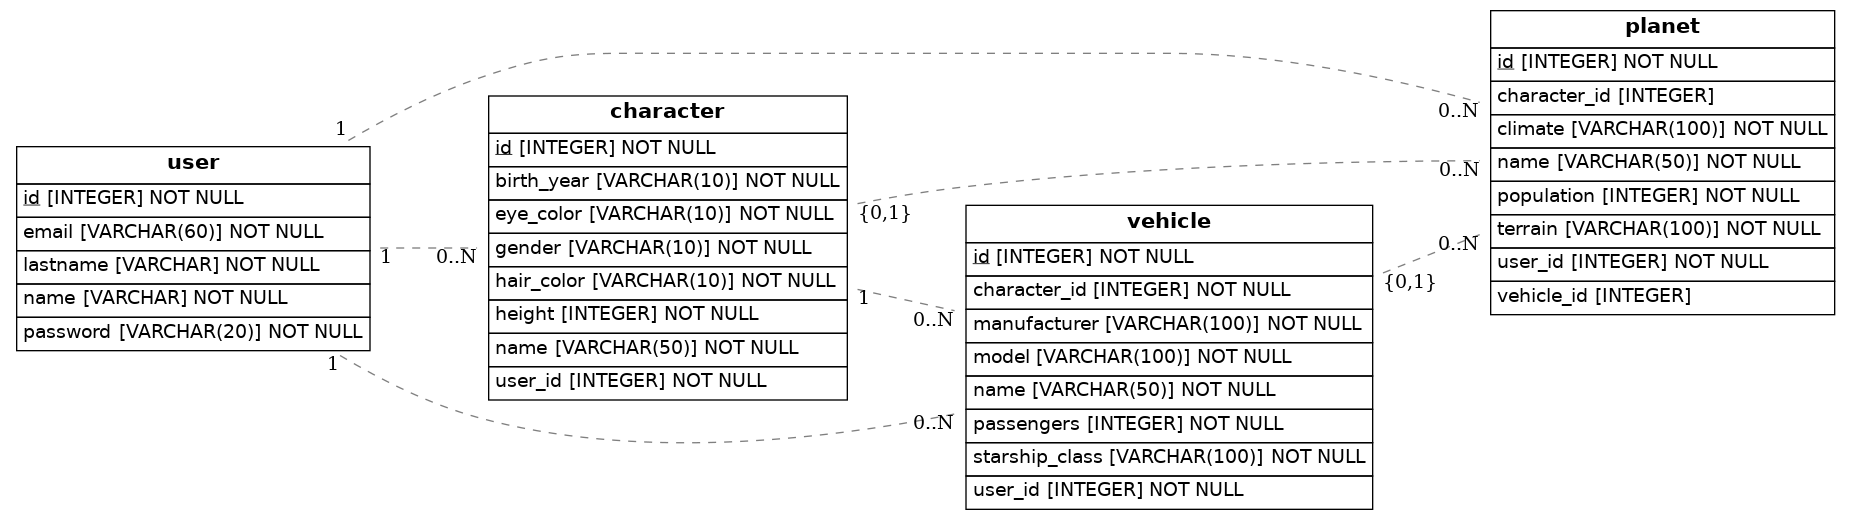
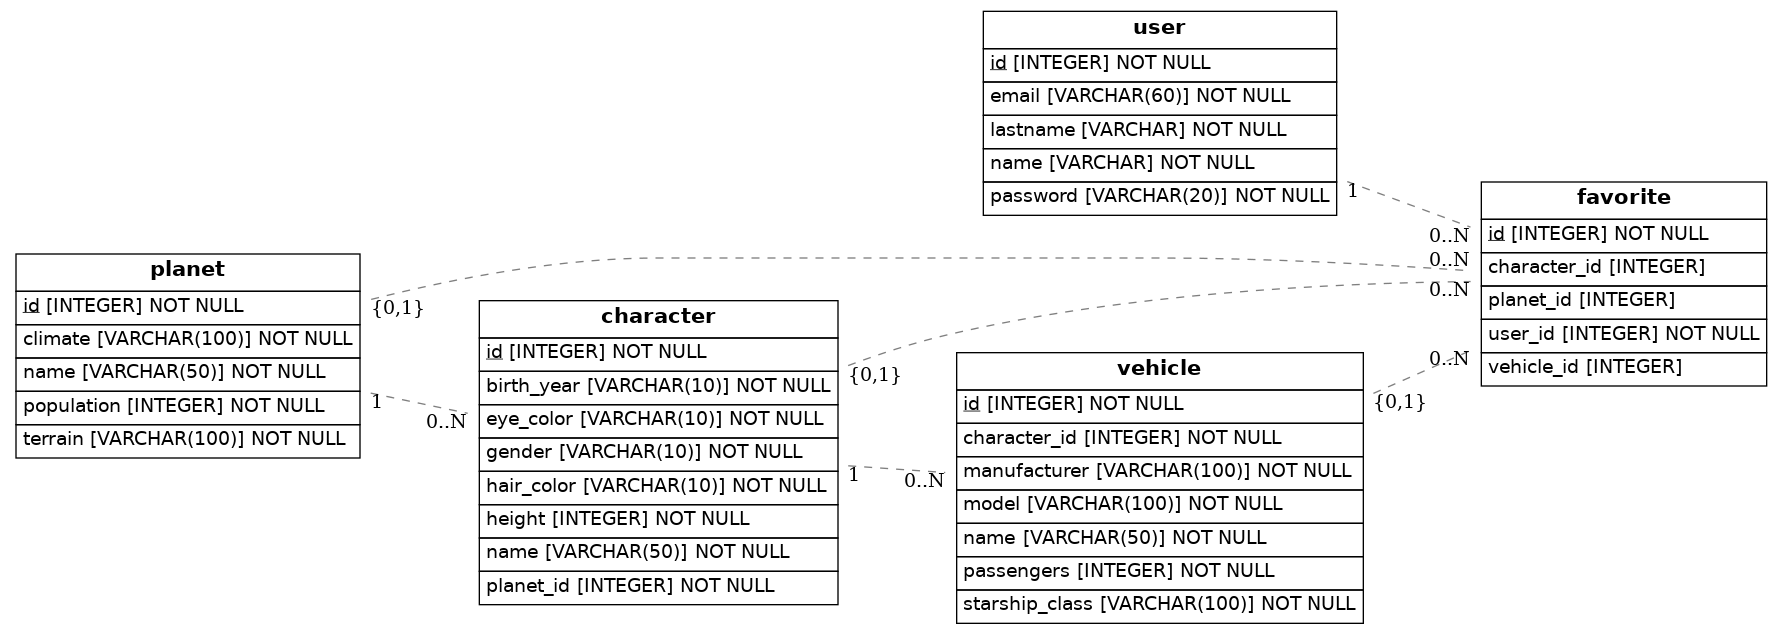
arreglo

Changed region(s): [[0.0, 0.0, 1.0, 1.0]]

diff --git a/src/models.py b/src/models.py
@@ -16,9 +16,7 @@ class User(Base):
     email = Column(String(60), nullable=False)
     password = Column(String(20), nullable=False)
 
-    characters = relationship("character", backref="user")
-    planets = relationship("Planet", backref="user")
-    vehicles = relationship("Vehicle", backref="user")
+    favorites = relationship("Favorite", backref="user")
 
 class Character(Base):
     __tablename__ = "character"
@@ -30,10 +28,9 @@ class Character(Base):
     gender = Column(String(10), nullable=False)
     birth_year = Column(String(10), nullable=False)
 
-    user_id = Column(Integer, ForeignKey("user.id"), nullable=False)
-    
-    planets = relationship("Planet", backref="post")
-    vehicles = relationship("Vehicle", backref="post")
+    favorites = relationship("Favorite", backref="character")
+    planet_id = Column(Integer, ForeignKey("planet.id"), nullable=False)
+    vehicles = relationship("Vehicle", backref="favorite")
 
 class Planet(Base):
     __tablename__ = "planet"
@@ -43,10 +40,8 @@ class Planet(Base):
     climate = Column(String(100), nullable=False)
     terrain = Column(String(100), nullable=False)
 
-    user_id = Column(Integer, ForeignKey("user.id"), nullable=False)
-
-    character_id = Column(Integer, ForeignKey("character.id"), nullable=True)
-    vehicle_id = Column(Integer, ForeignKey("vehicle.id"), nullable=True)
+    favorites = relationship("Favorite", backref="planet")
+    characters = relationship("Character", backref="planet")
 
 class Vehicle(Base):
     __tablename__ = "vehicle"
@@ -57,10 +52,18 @@ class Vehicle(Base):
     manufacturer = Column(String(100), nullable=False)
     starship_class = Column(String(100), nullable=False)
 
-    user_id = Column(Integer, ForeignKey("user.id"), nullable=False)
+    favorites = relationship("Favorite", backref="vehicle")
     character_id = Column(Integer, ForeignKey("character.id"), nullable=False)
 
-    planets = relationship("Planet", backref="planet")
+
+class Favorite(Base):
+    __tablename__ = "favorite"
+    id = Column(Integer, primary_key=True)
+
+    user_id = Column(Integer, ForeignKey("user.id"), nullable=False)
+    character_id = Column(Integer, ForeignKey("character.id"), nullable=True)
+    vehicle_id = Column(Integer, ForeignKey("vehicle.id"), nullable=True)
+    planet_id = Column(Integer, ForeignKey("planet.id"), nullable=True)
 
 ## Draw from SQLAlchemy base
 render_er(Base, 'diagram.png')
